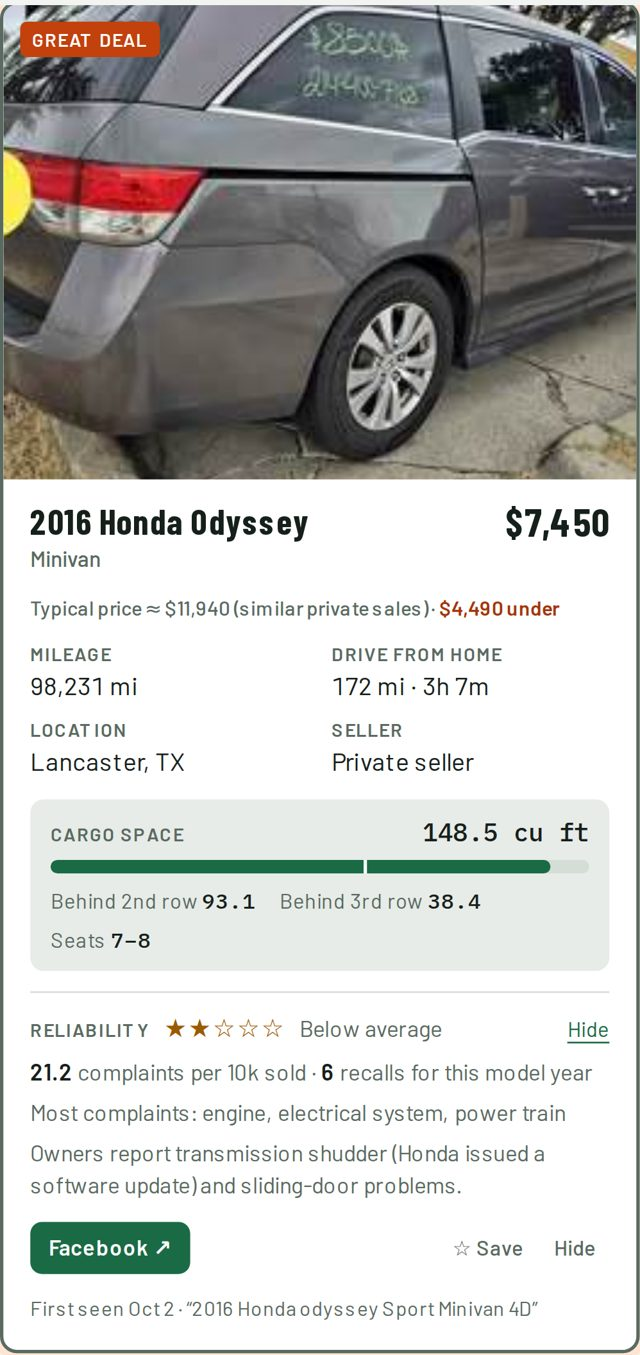
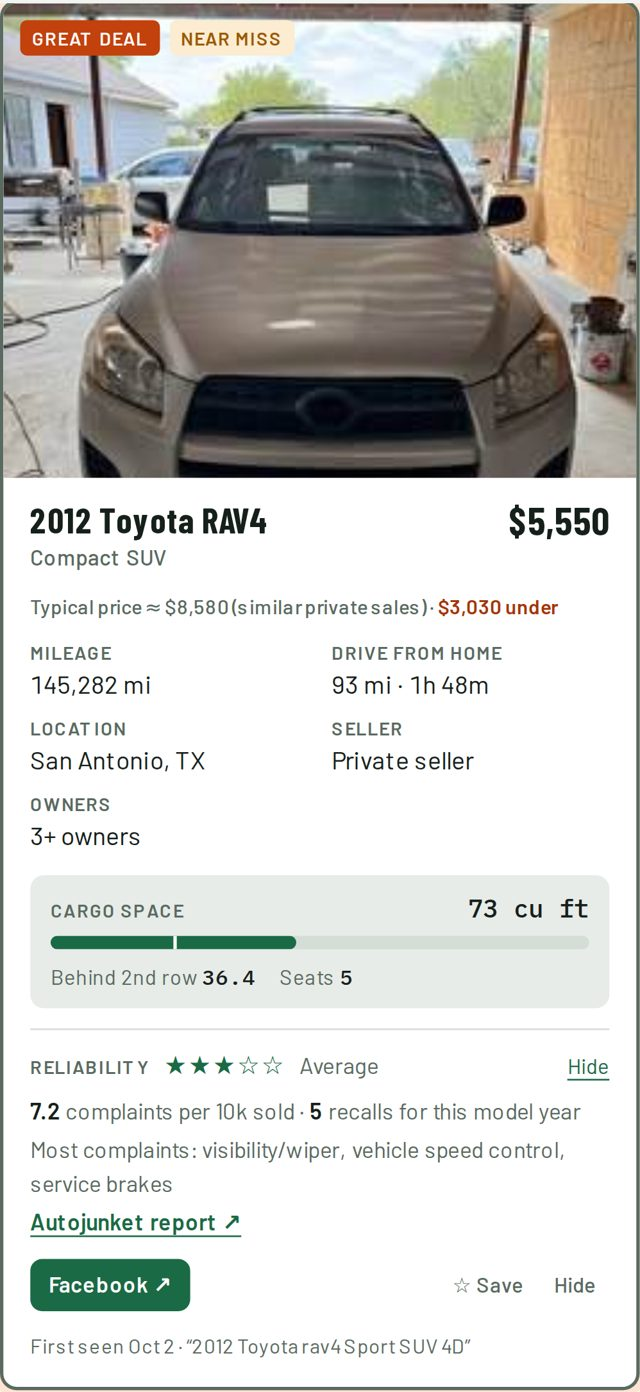
Update slides: Autojunket, generations guide, Prius and owner tracking
Claude-Session: https://claude.ai/code/session_014AyEs2KPFCANyX4rBPLi4q

diff --git a/docs/slides/index.html b/docs/slides/index.html
@@ -82,7 +82,7 @@ td.dim { color: #9aa59f; }
 .box small { color: var(--muted); font-size: 13.5px; display: block; }
 .arrow { width: 34px; display: grid; place-items: center; color: var(--muted); font-size: 22px; flex: none; }
 .loc { font-size: 14px; }
-.loc td { padding: 6px 10px; }
+.loc td { padding: 4px 10px; } .loc th { padding-bottom: 6px; }
 
 /* Cards grid */
 .cards { display: grid; grid-template-columns: repeat(3, 1fr); gap: 16px; }
@@ -146,8 +146,8 @@ aside.notes { display: none; }
   <p class="lead">One evening of prompts turned into a scraper for 5 car sites, a deal-scoring model, phone alerts and a mobile report that rebuilds twice a day.</p>
   <div class="stats">
     <div class="stat"><b>77 min</b><span>first prompt to first live report</span></div>
-    <div class="stat"><b>23</b><span>prompts, total</span></div>
-    <div class="stat"><b>~1,900</b><span>lines of Python + HTML</span></div>
+    <div class="stat"><b>35</b><span>prompts over 10 days</span></div>
+    <div class="stat"><b>~2,400</b><span>lines of Python + HTML</span></div>
     <div class="stat"><b>0</b><span>lines typed by me</span></div>
     <div class="stat"><b>~2,300</b><span>listings scanned per run</span></div>
   </div>
@@ -207,7 +207,7 @@ aside.notes { display: none; }
     <li><time>Oct 2 12:22p</time><span>"Add Lexus and Acura"</span></li>
     <li><time>Oct 3 11:22a</time><span>"Does this scrape Edmunds?"</span></li>
   </ul>
-  <p class="lead" style="margin-top:16px;font-size:19px">Several of these were typed <i>while Claude was still working</i>. Claude Code queues them and folds them into the running task.</p>
+  <p class="lead" style="margin-top:16px;font-size:19px">Several of these were typed <i>while Claude was still working</i>. Claude Code queues them and folds them into the running task. A second round of asks came a week later (slide 12).</p>
   <div class="foot"><span>Building a used-car finder with Claude</span></div>
   <aside class="notes">Most of the real product came from short follow-ups, not the first prompt. I never stopped to write requirements. I reacted to what I saw, the same way you'd work with a teammate sitting next to you. Everything after ~10 PM on day one was polish.</aside>
 </section>
@@ -231,12 +231,13 @@ aside.notes { display: none; }
     <div class="col">
       <table class="loc">
         <tr><th>File</th><th>Lines</th><th>Job</th></tr>
-        <tr><td><code>run.py</code></td><td>399</td><td>pipeline, filters, merge, price drops</td></tr>
-        <tr><td><code>finder/sources.py</code></td><td>372</td><td>the 5 scrapers</td></tr>
-        <tr><td><code>finder/report_template.html</code></td><td>464</td><td>report UI (vanilla JS, no framework)</td></tr>
+        <tr><td><code>run.py</code></td><td>420</td><td>pipeline, filters, merge, price drops</td></tr>
+        <tr><td><code>finder/sources.py</code></td><td>373</td><td>the 5 scrapers</td></tr>
+        <tr><td><code>finder/report_template.html</code></td><td>470</td><td>report UI (vanilla JS, no framework)</td></tr>
         <tr><td><code>finder/deals.py</code></td><td>130</td><td>per-model price regression</td></tr>
-        <tr><td><code>finder/reliability.py</code></td><td>120</td><td>NHTSA complaints → stars</td></tr>
-        <tr><td><code>notify / geo / models / report / publish</code></td><td>426</td><td>the rest</td></tr>
+        <tr><td><code>finder/reliability.py</code></td><td>122</td><td>NHTSA complaints → stars</td></tr>
+        <tr><td><code>scripts/generations.py</code></td><td>394</td><td>generations guide page</td></tr>
+        <tr><td><code>notify / geo / models / report / publish</code></td><td>451</td><td>the rest</td></tr>
       </table>
     </div>
     <div class="col" style="flex:.8">
@@ -333,11 +334,11 @@ pct_under = 1 - price / expected
   <p class="kicker">The result</p>
   <h2>The report</h2>
   <div class="row grow" style="align-items:flex-start">
-    <div style="flex:1.85"><img class="shot" src="img/d-deals.jpg" alt="Desktop view of the report on the Deals tab" style="width:100%"></div>
-    <div class="phone" style="width:190px;flex:none;height:440px"><img src="img/m-deals.jpg" alt="Phone view of the report"></div>
-    <div class="phone" style="width:190px;flex:none;height:440px"><img src="img/m-card.jpg" alt="One listing card with cargo and reliability"></div>
+    <div style="flex:1.85"><img class="shot" src="img/d-deals.jpg" alt="Desktop view of the report on the Deals tab" style="width:100%;height:398px;object-fit:cover;object-position:top"></div>
+    <div class="phone" style="width:172px;flex:none;height:398px"><img src="img/m-deals.jpg" alt="Phone view of the report"></div>
+    <div class="phone" style="width:172px;flex:none;height:398px"><img src="img/m-card.jpg" alt="One listing card with owners, cargo, reliability and an Autojunket link"></div>
   </div>
-  <p class="lead" style="font-size:18px;margin-top:-14px">Views: Deals · Matches · Near misses · Saved · Gone. Filters: model, price, mileage, distance, seller type, rows, reliability, site, search. Live at <b>petenelson.github.io/our-car-finder-report</b></p>
+  <p class="lead" style="font-size:17px;margin-top:14px;max-width:none">5 views · 10 filters, including owners and reliability · an Autojunket link on each card · live at <b>petenelson.github.io/our-car-finder-report</b></p>
   <div class="foot"><span>Building a used-car finder with Claude</span></div>
   <aside class="notes">Pull up the live page here if there's time. Defaults are Deals tab + Best deal sort, which I asked for. The card layout, cargo bar, reliability details and known-issues notes were Claude's design. The notes are things like "A/C compressor failures are common on 2012–16 CR-Vs".</aside>
 </section>
@@ -372,11 +373,28 @@ pct_under = 1 - price / expected
   <div class="pb"><div class="ask">"This is what it looks like on phone, too small to read. Feel free to use Tailwind."</div><div class="ans">"The cause is a missing tag, not small fonts… Tailwind isn't needed." One <code>&lt;meta viewport&gt;</code> line fixed it.</div></div>
   <div class="pb"><div class="ask">"Install playwright if you need to."</div><div class="ans">Didn't. The stealth-browser package it already had shipped a Chromium that could emulate a Pixel 7.</div></div>
   <div class="pb"><div class="ask">"Any reason not to set a lower bottom price?"</div><div class="ans">It pulled the data first: "The $6–7k cars are newer and lower-mileage than the $7–8k ones, which is backwards… usually lowball bait." Recommended <b>$6k, not lower</b>.</div></div>
-  <div class="pb"><div class="ask">"Clicking on a notification shows a 404. Does it need the new URL?"</div><div class="ans">"No change was needed." Only the two alerts sent before the move had the old link, and sent notifications can't be edited.</div></div>
+  <div class="pb"><div class="ask">"Can you use autojunket to get reliability reports?"</div><div class="ans">Read their robots.txt, terms and methodology first. The terms say "you may not… scrape the Service", and the scores are generated estimates, so it <b>linked to each report instead</b> of copying scores.</div></div>
   <div class="pb"><div class="ask">"Can I make the repo private and still publish the report page?"</div><div class="ans">Explained that Pages stays public even on Pro, and laid out 3 options (two repos / Pro / Cloudflare Access) with costs.</div></div>
   <div class="pb" style="margin-bottom:0"><div class="ask">"Does this scrape Edmunds?"</div><div class="ans">"It would mostly add duplicates." It offered to probe Edmunds anyway as a backup source. I said no.</div></div>
   <div class="foot"><span>Building a used-car finder with Claude</span></div>
   <aside class="notes">This is the part I didn't expect. When I suggested a solution (Tailwind, Playwright, a lower floor), Claude diagnosed the actual problem first and told me when my suggestion wasn't needed. It also answered with data, not opinion. The price-floor answer came with a table of listings by price band.</aside>
+</section>
+
+<!-- 12 -->
+<section class="slide">
+  <p class="kicker">A week later</p>
+  <h2>Round two: four more asks, same pattern</h2>
+  <div class="row grow" style="gap:22px">
+    <div class="col" style="display:grid;grid-template-columns:1fr 1fr;gap:14px;align-content:start">
+      <div class="card"><h4>"Use Autojunket for reliability"</h4><p>My dictation garbled the name, so Claude searched, found nothing, and <b>asked</b> instead of guessing. Once I sent the URL, it checked the terms and added a link on 438 cards.</p></div>
+      <div class="card"><h4>"Summarize the generations"</h4><p>A guide for 11 models and 16 generations: specs, updates, a per-year NHTSA table and current listings. It <b>flagged that the spec notes came from its own knowledge</b> and suggested I proofread them.</p></div>
+      <div class="card"><h4>"Is this Prius covered?"</h4><p>It decoded the VIN with NHTSA's API: a regular Prius, not the Prius v. It explained <b>why it had been left out</b> (40 vs 67 cu ft of cargo) before adding it. "Rebuild it tomorrow" became a one-shot cron job that waits for the scrape, publishes, sends a push, then deletes itself.</p></div>
+      <div class="card"><h4>"Track the number of owners"</h4><p>It probed every site. Facebook has a seller-entered field and CarMax has a one-owner badge. Cars.com's filter <b>couldn't be verified, so it was left out</b> rather than shown with unverified numbers.</p></div>
+    </div>
+    <div style="width:330px;flex:none"><img class="shot" src="img/d-gen.jpg" alt="The generations guide page" style="width:100%"><p style="font-size:13px;color:var(--muted);margin-top:8px">The generations guide, built in one prompt</p></div>
+  </div>
+  <div class="foot"><span>Building a used-car finder with Claude</span></div>
+  <aside class="notes">Same behaviors as week one: verify before building, say what it can't confirm, and explain tradeoffs before acting. The owners feature is a good example of honesty: only about 1 in 6 listings state an owner count, and it said so instead of padding the numbers.</aside>
 </section>
 
 <!-- 12 -->
